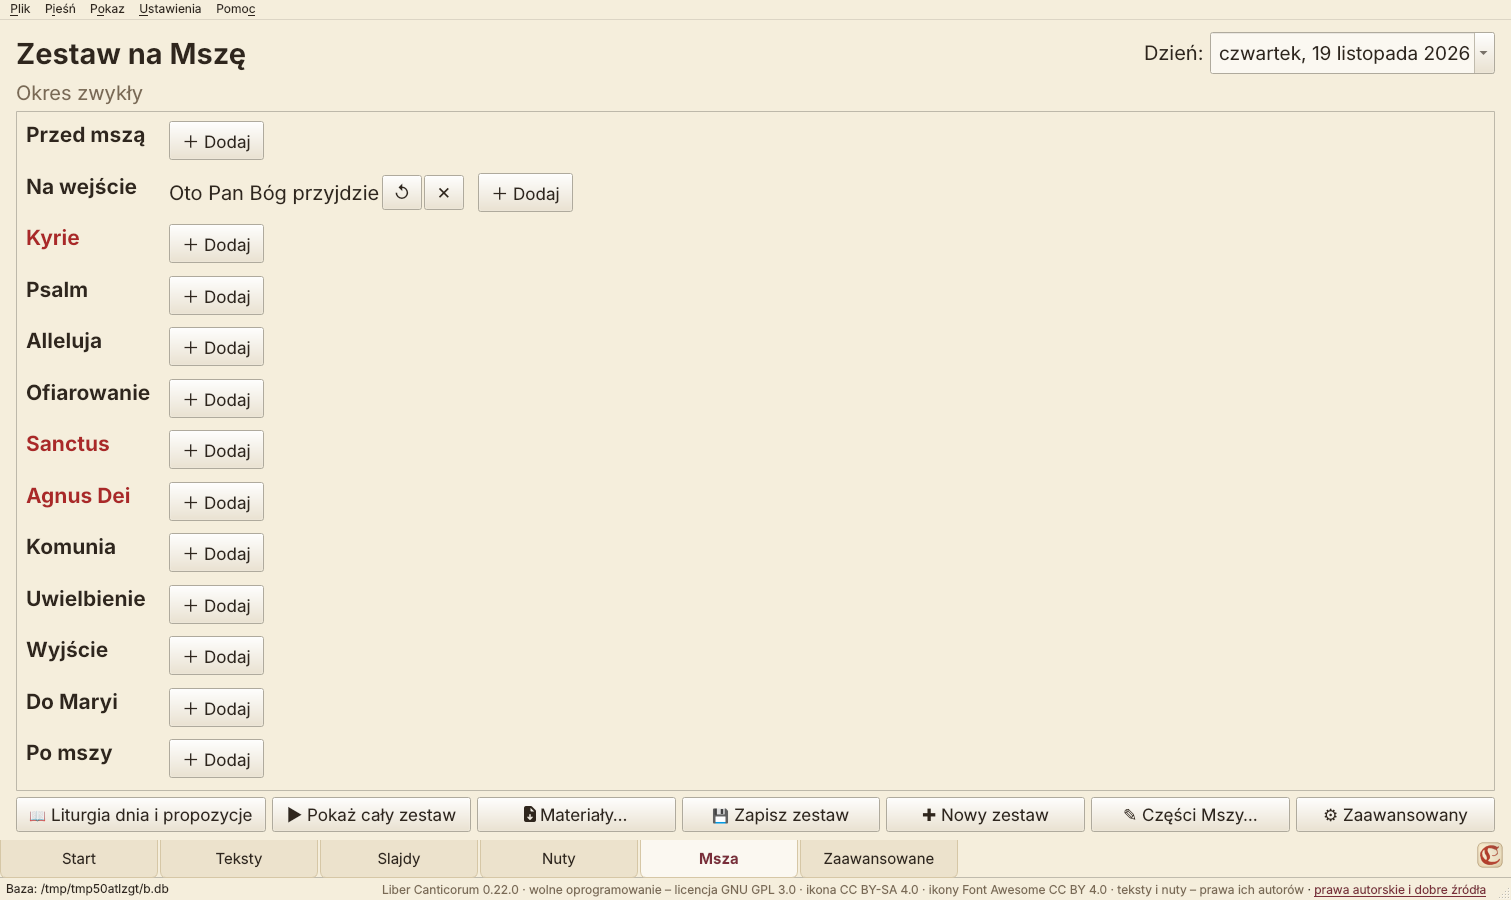
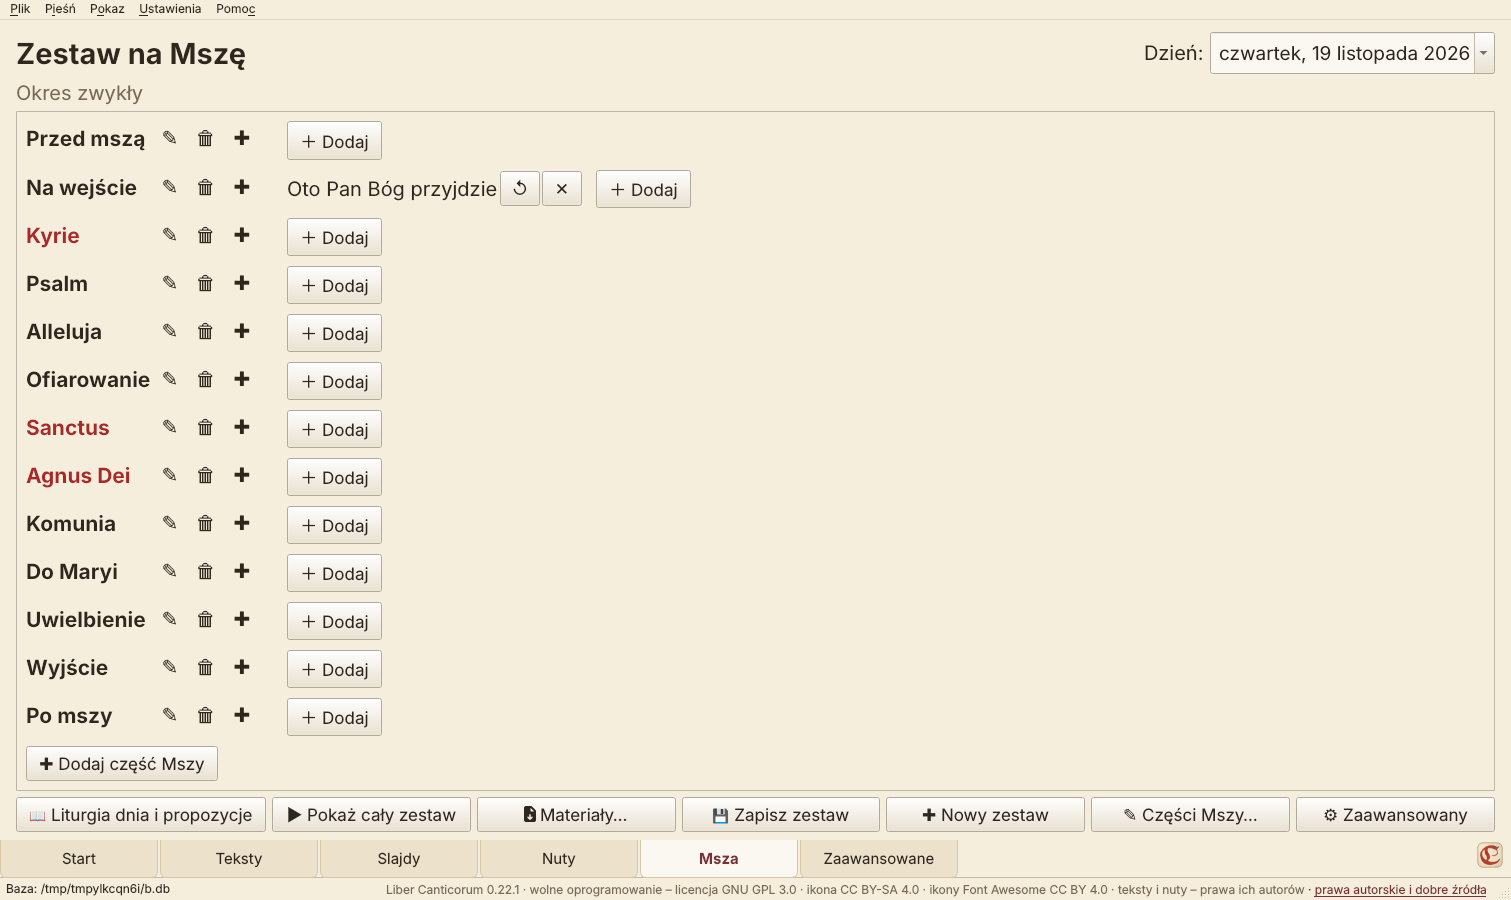
0.22.1: Msza – ✎/🗑/✚ przy nazwie każdej części i „✚ Dodaj część Mszy” pod wykazem
Claude-Session: https://claude.ai/code/session_01Wt9ypXHAjTrJsv1Ry26Vbk

diff --git a/program/liber_canticorum.py b/program/liber_canticorum.py
@@ -53,12 +53,12 @@ from PySide6.QtWidgets import (QApplication, QCheckBox, QColorDialog, QComboBox,
                                QDialogButtonBox, QDoubleSpinBox, QFileDialog, QFontComboBox,
                                QFormLayout, QGridLayout, QGroupBox, QHBoxLayout, QInputDialog,
                                QLabel, QLineEdit, QListWidget, QListWidgetItem, QMainWindow,
-                               QMessageBox, QPlainTextEdit, QPushButton, QSpinBox, QSplitter, QTabWidget, QTextBrowser,
+                               QMessageBox, QToolButton, QPlainTextEdit, QPushButton, QSpinBox, QSplitter, QTabWidget, QTextBrowser,
                                QToolBar, QTreeWidget, QTreeWidgetItem, QVBoxLayout, QWidget, QAbstractItemView)
 
 APP_NAME = "Liber Canticorum"
 APP_MOTTO = "wolny śpiewnik dla wspólnot"
-VERSION = "0.22.0"
+VERSION = "0.22.1"
 APP_DIR = os.path.dirname(os.path.abspath(__file__))
 BG_DIR = os.path.join(APP_DIR, "tla")
 
@@ -2663,11 +2663,29 @@ class MassPage(QWidget):
         for r, part in enumerate(names):
             it = tree.parts[part]
             multi = MASS_MULTI.get(part, True)
+            head = QWidget()
+            hl = QHBoxLayout(head)
+            hl.setContentsMargins(0, 0, 0, 0)
+            hl.setSpacing(2)
             lab = QLabel(part)
             lab.setObjectName("massPart")
             if part in ORDINARY:
                 lab.setStyleSheet("color: #aa2828;")
-            self.grid.addWidget(lab, r, 0, Qt.AlignTop)
+            hl.addWidget(lab)
+            hl.addStretch(1)
+            for txt, tip, fn in (("✎", f"Zmień nazwę części „{part}”", lambda _=False, p=part: self.rename_part(p)),
+                                 ("🗑", f"Usuń część „{part}” z zestawu", lambda _=False, p=part: self.delete_part(p)),
+                                 ("✚", f"Wstaw nową część po „{part}”", lambda _=False, p=part: self.insert_part(p))):
+                b = QToolButton()
+                b.setText(txt)
+                b.setToolTip(tip)
+                b.setAutoRaise(True)
+                b.setFixedSize(34, 34)
+                b.setStyleSheet("QToolButton { font-size: 15pt; }")
+                b.clicked.connect(fn)
+                hl.addWidget(b)
+            hl.addSpacing(10)
+            self.grid.addWidget(head, r, 0, Qt.AlignTop)
             box = QWidget()
             bl = QVBoxLayout(box)
             bl.setContentsMargins(0, 0, 0, 0)
@@ -2703,6 +2721,70 @@ class MassPage(QWidget):
                 row.addStretch(1)
                 bl.addLayout(row)
             self.grid.addWidget(box, r, 1, Qt.AlignTop)
+        if tree.kind == 'msza':
+            add = QPushButton("✚ Dodaj część Mszy")
+            add.setToolTip("Nowa część na końcu zestawu, np. „Do Maryi”, „Na zakończenie”")
+            add.clicked.connect(lambda: self.insert_part(None))
+            self.grid.addWidget(add, len(names), 0, Qt.AlignTop | Qt.AlignLeft)
+
+    # --- części Mszy wprost z wykazu ---
+    def insert_part(self, after):
+        name, ok = QInputDialog.getText(self, "Nowa część Mszy", "Nazwa części (np. „Do Maryi”, „Na zakończenie”):")
+        name = name.strip() if ok else ""
+        if not name:
+            return
+        parts = list(MASS_PARTS)
+        if name in [n for n, _ in parts]:
+            QMessageBox.information(self, APP_NAME, f"Część „{name}” już jest w zestawie.")
+            return
+        k = [n for n, _ in parts].index(after) + 1 if after in [n for n, _ in parts] else len(parts)
+        parts.insert(k, (name, True))
+        self._store_parts(parts)
+
+    def rename_part(self, part):
+        name, ok = QInputDialog.getText(self, "Zmień nazwę części", f"Nowa nazwa części „{part}”:", text=part)
+        name = name.strip() if ok else ""
+        if not name or name == part:
+            return
+        if name in [n for n, _ in MASS_PARTS]:
+            QMessageBox.information(self, APP_NAME, f"Część „{name}” już jest w zestawie.")
+            return
+        parts = [(name if n == part else n, m) for n, m in MASS_PARTS]
+        if part not in [n for n, _ in MASS_PARTS]:
+            parts.append((name, True))
+        self._store_parts(parts, {part: name})
+
+    def delete_part(self, part):
+        it = self.mw.setlist.parts.get(part)
+        n = it.childCount() if it else 0
+        parts = [(x, m) for x, m in MASS_PARTS if x != part]
+        if not parts:
+            return
+        msg = f"Usunąć część „{part}” z zestawu na Mszę?"
+        if n:
+            msg += f"\n\nJej pieśni ({n}) zostaną usunięte z zestawu (same pieśni zostają w bazie)."
+        msg += "\n\nDomyślny układ można przywrócić w „✎ Części Mszy…”."
+        if QMessageBox.question(self, APP_NAME, msg) != QMessageBox.Yes:
+            return
+        if it:
+            it.takeChildren()
+        self._store_parts(parts)
+
+    def _store_parts(self, parts, renamed=None):
+        mw = self.mw
+        tree = mw.setlist
+        if renamed and tree.kind == 'msza':                # pieśni idą za przemianowaną częścią
+            for was, n in renamed.items():
+                if was in tree.parts:
+                    it = tree.parts.pop(was)
+                    it.setData(0, Qt.UserRole + 1, n)
+                    tree.parts[n] = it
+        mw.settings.setValue("mass_parts", json.dumps(parts, ensure_ascii=False))
+        apply_mass_parts(parts)
+        if mw.set_kind() == 'msza':
+            tree.rebuild_parts()
+        mw.save_set()
+        self.refresh()
 
     def remove(self, part, j):
         it = self.mw.setlist.parts[part]
@@ -2791,19 +2873,7 @@ class MassPage(QWidget):
                     renamed[was] = n
         if not parts:
             return
-        tree = mw.setlist
-        if renamed and tree.kind == 'msza':                # pieśni idą za przemianowaną częścią
-            for was, n in renamed.items():
-                if was in tree.parts:
-                    it = tree.parts.pop(was)
-                    it.setData(0, Qt.UserRole + 1, n)
-                    tree.parts[n] = it
-        mw.settings.setValue("mass_parts", json.dumps(parts, ensure_ascii=False))
-        apply_mass_parts(parts)
-        if mw.set_kind() == 'msza':
-            mw.setlist.rebuild_parts()
-        mw.save_set()
-        self.refresh()
+        self._store_parts(parts, renamed)
 
     def clear_part(self, part):
         it = self.mw.setlist.parts[part]

diff --git a/README.md b/README.md
@@ -1,6 +1,6 @@
 <p align="center"><img src="program/ikony/liber_canticorum_128.png" width="128" alt="Liber Canticorum"></p>
 
-# Liber Canticorum 0.22.0
+# Liber Canticorum 0.22.1
 *wolny śpiewnik dla wspólnot*
 
 *Liber canticorum* to po łacinie „księga pieśni”. *Liber* znaczy „księga”, a zarazem przywodzi na myśl
@@ -12,7 +12,7 @@ z nutami, odtwarzaczem głosów, pilotem w telefonie i śpiewnikiem offline. To 
 Działa na Windows, macOS i Linux. Startuje z pustą bazą: teksty, nuty i nagrania wpisujesz i dodajesz sam.
 
 **Numeracja wersji.** Od wersji 0.9.7 program ma numerację 0.x.y (wcześniejsze wydania nosiły numery 7.x–9.7).
-0.x oznacza, że program wciąż szybko się rozwija; kolejne wydania to 0.21.x, 0.22.0 itd.
+0.x oznacza, że program wciąż szybko się rozwija; kolejne wydania to 0.21.x, 0.22.1 itd.
 
 ## Jak wygląda
 
@@ -86,7 +86,9 @@ Wygląd: jasny pergamin bez ozdobników, w prawym dolnym rogu inicjał „C” z
 
 ## Krok po kroku: nowe funkcje
 
-**Własne części Mszy (nowość w 0.22).** Zakładka **Msza** → „✎ Części Mszy…”:
+**Własne części Mszy (nowość w 0.22).** Wprost w wykazie zakładki **Msza** przy nazwie każdej części są ikony
+**✎** (zmień nazwę), **🗑** (usuń część z zestawu) i **✚** (wstaw nową część poniżej), a pod wykazem –
+„✚ Dodaj część Mszy”. Pełny edytor (z kolejnością) – „✎ Części Mszy…”:
 1. **✚ Dodaj część…** – np. „Do Maryi”, „Na zakończenie”, „Hymn patronalny” (wstawiana po zaznaczonej).
 2. **✎ Zmień nazwę** (albo dwuklik) – pieśni przechodzą razem z przemianowaną częścią.
 3. **↑ / ↓** – kolejność; **🗑 Usuń** – pieśni z usuniętej części trafiają do pierwszej części.
@@ -195,7 +197,7 @@ Pole **„Słowa na dole”** włącza i wyłącza duże słowa bieżącej frazy
 Po rozpakowaniu w folderze są tylko programy do uruchamiania i ten folder `program`:
 
 ```
-LiberCanticorum_0.22.0/
+LiberCanticorum_0.22.1/
 ├── Liber Canticorum.bat       ← Windows (po 1. starcie obok pojawi się skrót z ikoną)
 ├── Liber Canticorum.desktop   ← Linux (ikona pojawi się po 1. starcie)
 ├── Liber Canticorum.command   ← macOS
